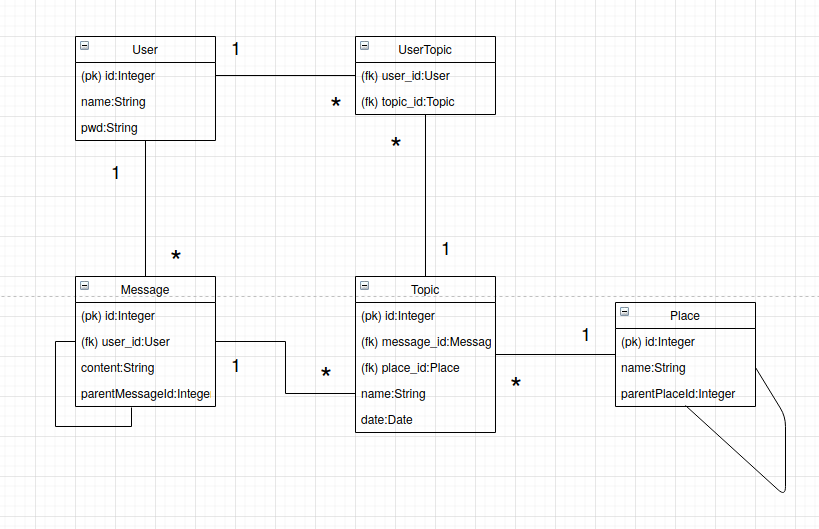
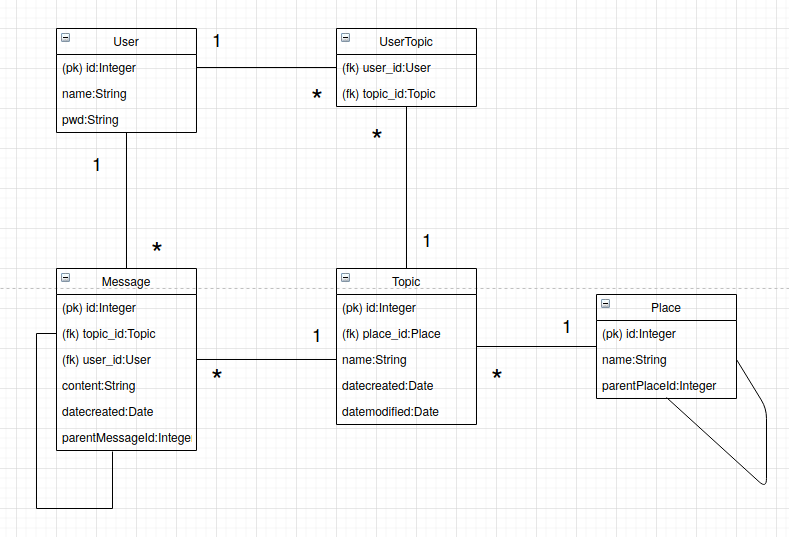
osa2

diff --git a/application/templates/topics/list.html b/application/templates/topics/list.html
@@ -1,0 +1,25 @@
+{% extends "layout.html" %}
+
+{% block body %}
+    <table>
+        <tr>
+            <th>Title</th>
+            <th>Replies</th>
+            <th>@</th>
+        </tr>
+        {% for topic in topics %}
+            {% set count = [] %}
+            {% for message in messages if message.topic_id == topic.id %}
+                {% set __ = count.append(1) %}
+            {% endfor %}
+            {% if count|length == 0 %}
+                    {% set __ = count.append(1) %}
+            {% endif %}        
+            <tr>
+                <td><a href="{{ url_for('topic_index', topic_id=topic.id) }}">{{ topic.name }}</a></td>
+                <td>{{ count|length - 1 }}</td>
+                <td>spoteil</td>
+            </tr>
+        {% endfor %}
+    </table>
+{% endblock %}

diff --git a/application/templates/topics/topic.html b/application/templates/topics/topic.html
@@ -1,0 +1,21 @@
+{% extends "layout.html" %}
+
+{% block body %}
+    {% for message in messages %}
+    <table>
+        <tr>
+            <th>User: </th>
+            <th>MessageID:{{ message.id}} </th>
+        </tr>
+        
+        <tr>
+            <td>{{ message.content }}</td>
+
+        </tr>
+    </table>
+    {% endfor %}
+    <form method="POST" action="{{ url_for('messages_create', topic_id=topic.id) }}">
+        <input type="text" name="name"/>
+        <input type="submit" value="Add a reply"/>
+    </form>
+{% endblock %}

diff --git a/application/templates/topics/new.html b/application/templates/topics/new.html
@@ -1,0 +1,10 @@
+{% extends "layout.html" %}
+  
+{% block body %}
+<b><p>Submit a new topic</p></b>
+<form method="POST" action="{{ url_for('topics_create') }}">
+  Title: <input type="text" name="name"/><br>
+  Message: <input type="text" name="message"/><br>
+  <input type="submit" value="Add a new topic"/>
+</form>
+{% endblock %}

diff --git a/application/templates/layout.html b/application/templates/layout.html
@@ -6,10 +6,15 @@
   </head>
 
   <body>
+    <ul>
+      <li><a href="{{ url_for('topics_index') }}">List topics</a></li>
+      <li><a href="{{ url_for('topics_form') }}">Add a topic</a></li>
+    </ul>
     {% block body %}
     <p>
         Tähän tuodaan sisältö muualta.
     </p>
     {% endblock %}
+    
   </body>
 </html>

diff --git a/application/topics/views.py b/application/topics/views.py
@@ -1,0 +1,39 @@
+from application import app, db
+from flask import render_template, request, redirect, url_for
+from application.topics.models import Topic, Message
+
+@app.route("/topics/", methods=["GET"])
+def topics_index():
+    messages = db.session.query(Message)
+    return render_template("topics/list.html", topics = Topic.query.all(), messages = messages)
+
+@app.route("/topics/new/")
+def topics_form():
+    return render_template("topics/new.html")
+
+@app.route("/topics/<topic_id>/", methods=["GET"])
+def topic_index(topic_id):
+    return render_template("topics/topic.html", messages = db.session.query(Message).filter(Message.topic_id == topic_id), topic = Topic.query.get(topic_id))
+
+@app.route("/topics/", methods=["POST"])
+def topics_create():
+    name = request.form.get("name")
+    t = Topic(name)
+    db.session().add(t)
+    db.session().commit()
+
+    m = Message(request.form.get("message"), t.id)
+    db.session().add(m)
+    db.session().commit()
+  
+    return redirect(url_for("topics_index"))
+
+
+@app.route("/topics/<topic_id>/", methods=["POST"])
+def messages_create(topic_id):
+    m = Message(request.form.get("name"), topic_id)
+    
+    db.session().add(m)
+    db.session().commit()
+  
+    return redirect(url_for("topic_index", topic_id = topic_id))

diff --git a/application/topics/models.py b/application/topics/models.py
@@ -1,0 +1,28 @@
+from application import db
+
+class Topic(db.Model):
+    id = db.Column(db.Integer, primary_key=True)
+    date_created = db.Column(db.DateTime, default=db.func.current_timestamp())
+    date_modified = db.Column(db.DateTime, default=db.func.current_timestamp(), onupdate=db.func.current_timestamp())
+    messages = db.relationship('Message', backref='topic', lazy=True)
+    
+    name = db.Column(db.String(144), nullable=False)
+    #place_id = db.Column(db.Integer, db.ForeignKey('place.id'), nullable=False)
+
+    
+    def __init__(self, name):
+            self.name = name
+            self.done = False
+
+class Message(db.Model):
+    id = db.Column(db.Integer, primary_key=True)
+    date_created = db.Column(db.DateTime, default=db.func.current_timestamp())
+    topic_id = db.Column(db.Integer, db.ForeignKey('topic.id'), nullable=False)
+    #parent_message_id
+    
+    content = db.Column(db.String(500), nullable=False)
+
+    def __init__(self, content, topic_id):
+        self.content = content
+        self.topic_id = topic_id
+        

diff --git a/application/__init__.py b/application/__init__.py
@@ -1,0 +1,30 @@
+from flask import Flask
+app = Flask(__name__)
+
+from flask_sqlalchemy import SQLAlchemy
+
+# Käytetään topics.db-nimistä SQLite-tietokantaa. Kolme vinoviivaa
+# kertoo, tiedosto sijaitsee tämän sovelluksen tiedostojen kanssa
+# samassa paikassa
+app.config["SQLALCHEMY_DATABASE_URI"] = "sqlite:///topics.db"
+# Pyydetään SQLAlchemyä tulostamaan kaikki SQL-kyselyt
+app.config["SQLALCHEMY_ECHO"] = True
+
+# Luodaan db-olio, jota käytetään tietokannan käsittelyyn
+db = SQLAlchemy(app)
+
+# Luetaan kansiosta application tiedoston views sisältö
+from application import places
+
+from application.topics import models
+
+from application.topics import views
+
+##from application.messages import models
+
+##from application.messages import views
+
+
+
+# Luodaan lopulta tarvittavat tietokantataulut
+db.create_all()

diff --git a/application/messages/models.py b/application/messages/models.py
@@ -1,0 +1,13 @@
+from application import db
+
+class Message(db.Model):
+    id = db.Column(db.Integer, primary_key=True)
+    date_created = db.Column(db.DateTime, default=db.func.current_timestamp())
+    #topic
+    #parent_message_id
+    
+    content = db.Column(db.String(500), nullable=False)
+
+    def __init__(self, content):
+        self.content = content
+        self.done = False

diff --git a/application/messages/views.py b/application/messages/views.py
@@ -1,0 +1,12 @@
+from application import app
+from flask import request, redirect, url_for
+from application.messages.models import Message
+
+@app.route("/topics/<topic_id>/", methods=["POST"])
+def messages_create(topic_id):
+    m = Message(request.form.get("content"))
+    
+    db.session().add(t)
+    db.session().commit()
+  
+    return redirect(url_for("topic_index"))

diff --git a/application/places.py b/application/places.py
@@ -1,0 +1,7 @@
+from flask import render_template
+from application import app
+
+@app.route("/")
+def places():
+    return render_template("index.html")
+

diff --git a/run.py b/run.py
@@ -1,0 +1,4 @@
+from application import app
+
+if __name__ == '__main__':
+    app.run(debug=True)
